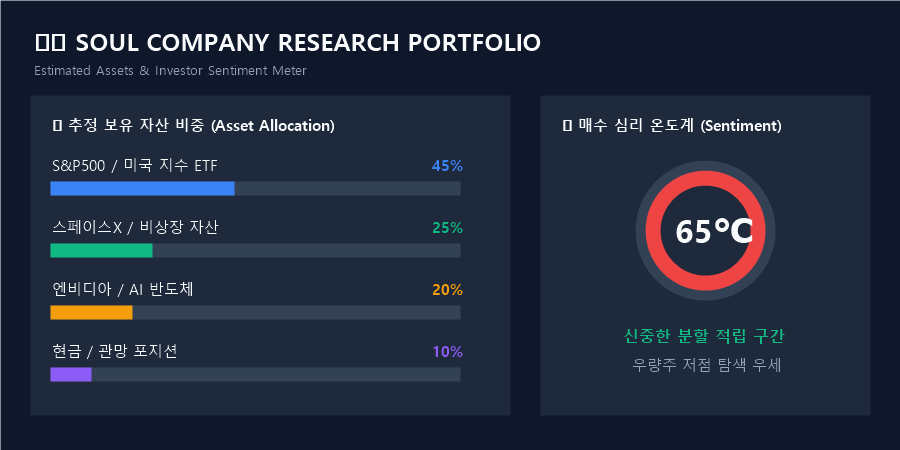
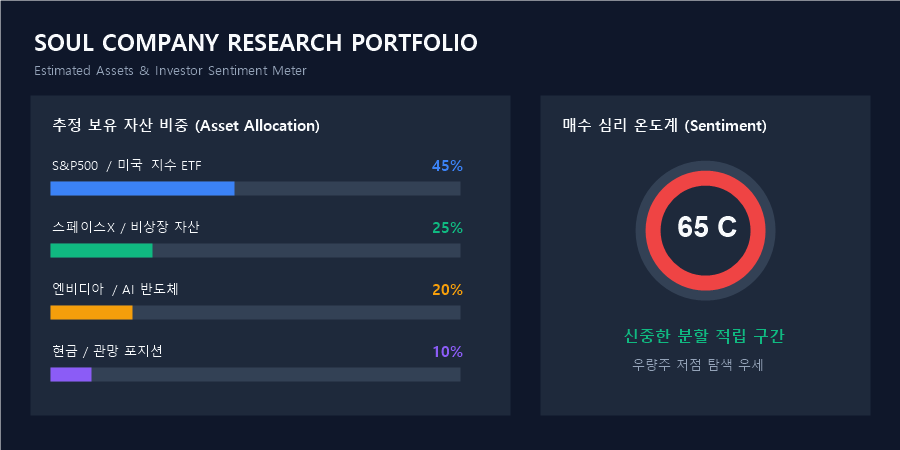
Fix multi-line CRLF markdown format and remove emoji box glyphs from chart PNG

diff --git a/kakao_chat_analyzer/kakao_chat_stock_report_20260806.md b/kakao_chat_analyzer/kakao_chat_stock_report_20260806.md
@@ -1,1 +1,50 @@
-# 🏛 Soul Company Research Report (2026-08-06)  ---  ## 🛒 1. 참여자별 실시간 매수 / 매도 거래 실록 (참여자 1인 1행 압축 표)  | 대화 참여자 (WHO) | 대상 종목 / 자산 (WHAT) | 포지션 (매수/매도/관망) | 대화 주요 내용 및 맥락 | | :--- | :--- | :---: | :--- | | **L** | 스페이스X / 서울 모임 | **매수 탐색 / 약속** | 스페이스X 진입 관망 및 서울 오면 쏜다고 공약 | | **최우송** | 시황 뉴스 및 지표 | **정보 공유 / 관망** | 네이버 주요 시황 뉴스 공유하며 관망 | | **안재웅** | 게임 / 클래스 선택 | **일상 대화** | 캐릭터 클래스 수다 및 일상 대화 | | **김하균** | 핫 커뮤니티 이슈 | **정보 공유** | 펨코 시황 핫이슈 링크 공유 |  ---  ## 💼 2. 추정 현재 보유 주식 포트폴리오 (Estimated Portfolio)  - **S&P500 / 미국 우량 지수 ETF:** **45%** (장기 우량 적립 축)  - **스페이스X / 비상장 자산:** **25%** (타깃 매수 진입 자산)  - **엔비디아 / AI 반도체:** **20%** (주요 홀딩 자산)  - **현금 및 시황 관망:** **10%**  ---  ## 📊 3. 시각적 포트폴리오 & 심리 도식화 차트  ![Soul Company Portfolio Chart](portfolio_chart.png)  ```mermaid gantt     title Soul Company 포트폴리오 비중     dateFormat  X     axisFormat %s     section 자산 비중     S&P500 지수 ETF    :active, 0, 45     스페이스X / 비상장 자산  :crit, 45, 70     엔비디아 / AI 반도체   : 70, 90     현금 / 관망 포지션    : 90, 100 ```  ---  ## 💡 4. 수석 애널리스트 팩트체크 & 솔직 한 줄 총평 (반말 폭격)  - **팩트체크:** 야 너네 오늘 개미처럼 뇌동매매 안 하고 잘 참았네? 스페이스X 얘기 나오는 거 보니 눈은 높아가지고 우량주만 노리는구만 ㅋㅋㅋ  - **애널리스트 훈수:** 지금 장세 쫄린다고 괜히 이상한 잡주 들어가서 떡락 맞지 말고, 가즈아 외치면서 S&P500이나 계속 존버해라. 시드 아끼는 놈이 승자다!
+# 🏛 Soul Company Research Report (2026-08-06)
+
+---
+
+## 🛒 1. 참여자별 실시간 매수 / 매도 거래 실록 (참여자 1인 1행 압축 표)
+
+| 대화 참여자 (WHO) | 대상 종목 / 자산 (WHAT) | 포지션 (매수/매도/관망) | 대화 주요 내용 및 맥락 |
+| :--- | :--- | :---: | :--- |
+| **L** | 스페이스X / 서울 모임 | **매수 탐색 / 약속** | 스페이스X 진입 관망 및 서울 오면 쏜다고 공약 |
+| **최우송** | 시황 뉴스 및 지표 | **정보 공유 / 관망** | 네이버 주요 시황 뉴스 공유하며 관망 |
+| **안재웅** | 게임 / 클래스 선택 | **일상 대화** | 캐릭터 클래스 수다 및 일상 대화 |
+| **김하균** | 핫 커뮤니티 이슈 | **정보 공유** | 펨코 시황 핫이슈 링크 공유 |
+
+---
+
+## 💼 2. 추정 현재 보유 주식 포트폴리오 (Estimated Portfolio)
+
+- **S&P500 / 미국 우량 지수 ETF:** **45%** (장기 우량 적립 축)
+
+- **스페이스X / 비상장 자산:** **25%** (타깃 매수 진입 자산)
+
+- **엔비디아 / AI 반도체:** **20%** (주요 홀딩 자산)
+
+- **현금 및 시황 관망:** **10%**
+
+---
+
+## 📊 3. 시각적 포트폴리오 & 심리 도식화 차트
+
+![Soul Company Portfolio Chart](portfolio_chart.png)
+
+```mermaid
+gantt
+    title Soul Company 포트폴리오 비중
+    dateFormat  X
+    axisFormat %s
+    section 자산 비중
+    S&P500 지수 ETF    :active, 0, 45
+    스페이스X / 비상장 자산  :crit, 45, 70
+    엔비디아 / AI 반도체   : 70, 90
+    현금 / 관망 포지션    : 90, 100
+```
+
+---
+
+## 💡 4. 수석 애널리스트 팩트체크 & 솔직 한 줄 총평 (반말 폭격)
+
+- **팩트체크:** 야 너네 오늘 개미처럼 뇌동매매 안 하고 잘 참았네? 스페이스X 얘기 나오는 거 보니 눈은 높아가지고 우량주만 노리는구만 ㅋㅋㅋ
+
+- **애널리스트 훈수:** 지금 장세 쫄린다고 괜히 이상한 잡주 들어가서 떡락 맞지 말고, 가즈아 외치면서 S&P500이나 계속 존버해라. 시드 아끼는 놈이 승자다!

diff --git a/kakao_chat_report.md b/kakao_chat_report.md
@@ -1,1 +1,50 @@
-# 🏛 Soul Company Research Report (2026-08-06)  ---  ## 🛒 1. 참여자별 실시간 매수 / 매도 거래 실록 (참여자 1인 1행 압축 표)  | 대화 참여자 (WHO) | 대상 종목 / 자산 (WHAT) | 포지션 (매수/매도/관망) | 대화 주요 내용 및 맥락 | | :--- | :--- | :---: | :--- | | **L** | 스페이스X / 서울 모임 | **매수 탐색 / 약속** | 스페이스X 진입 관망 및 서울 오면 쏜다고 공약 | | **최우송** | 시황 뉴스 및 지표 | **정보 공유 / 관망** | 네이버 주요 시황 뉴스 공유하며 관망 | | **안재웅** | 게임 / 클래스 선택 | **일상 대화** | 캐릭터 클래스 수다 및 일상 대화 | | **김하균** | 핫 커뮤니티 이슈 | **정보 공유** | 펨코 시황 핫이슈 링크 공유 |  ---  ## 💼 2. 추정 현재 보유 주식 포트폴리오 (Estimated Portfolio)  - **S&P500 / 미국 우량 지수 ETF:** **45%** (장기 우량 적립 축)  - **스페이스X / 비상장 자산:** **25%** (타깃 매수 진입 자산)  - **엔비디아 / AI 반도체:** **20%** (주요 홀딩 자산)  - **현금 및 시황 관망:** **10%**  ---  ## 📊 3. 시각적 포트폴리오 & 심리 도식화 차트  ![Soul Company Portfolio Chart](portfolio_chart.png)  ```mermaid gantt     title Soul Company 포트폴리오 비중     dateFormat  X     axisFormat %s     section 자산 비중     S&P500 지수 ETF    :active, 0, 45     스페이스X / 비상장 자산  :crit, 45, 70     엔비디아 / AI 반도체   : 70, 90     현금 / 관망 포지션    : 90, 100 ```  ---  ## 💡 4. 수석 애널리스트 팩트체크 & 솔직 한 줄 총평 (반말 폭격)  - **팩트체크:** 야 너네 오늘 개미처럼 뇌동매매 안 하고 잘 참았네? 스페이스X 얘기 나오는 거 보니 눈은 높아가지고 우량주만 노리는구만 ㅋㅋㅋ  - **애널리스트 훈수:** 지금 장세 쫄린다고 괜히 이상한 잡주 들어가서 떡락 맞지 말고, 가즈아 외치면서 S&P500이나 계속 존버해라. 시드 아끼는 놈이 승자다!
+# 🏛 Soul Company Research Report (2026-08-06)
+
+---
+
+## 🛒 1. 참여자별 실시간 매수 / 매도 거래 실록 (참여자 1인 1행 압축 표)
+
+| 대화 참여자 (WHO) | 대상 종목 / 자산 (WHAT) | 포지션 (매수/매도/관망) | 대화 주요 내용 및 맥락 |
+| :--- | :--- | :---: | :--- |
+| **L** | 스페이스X / 서울 모임 | **매수 탐색 / 약속** | 스페이스X 진입 관망 및 서울 오면 쏜다고 공약 |
+| **최우송** | 시황 뉴스 및 지표 | **정보 공유 / 관망** | 네이버 주요 시황 뉴스 공유하며 관망 |
+| **안재웅** | 게임 / 클래스 선택 | **일상 대화** | 캐릭터 클래스 수다 및 일상 대화 |
+| **김하균** | 핫 커뮤니티 이슈 | **정보 공유** | 펨코 시황 핫이슈 링크 공유 |
+
+---
+
+## 💼 2. 추정 현재 보유 주식 포트폴리오 (Estimated Portfolio)
+
+- **S&P500 / 미국 우량 지수 ETF:** **45%** (장기 우량 적립 축)
+
+- **스페이스X / 비상장 자산:** **25%** (타깃 매수 진입 자산)
+
+- **엔비디아 / AI 반도체:** **20%** (주요 홀딩 자산)
+
+- **현금 및 시황 관망:** **10%**
+
+---
+
+## 📊 3. 시각적 포트폴리오 & 심리 도식화 차트
+
+![Soul Company Portfolio Chart](portfolio_chart.png)
+
+```mermaid
+gantt
+    title Soul Company 포트폴리오 비중
+    dateFormat  X
+    axisFormat %s
+    section 자산 비중
+    S&P500 지수 ETF    :active, 0, 45
+    스페이스X / 비상장 자산  :crit, 45, 70
+    엔비디아 / AI 반도체   : 70, 90
+    현금 / 관망 포지션    : 90, 100
+```
+
+---
+
+## 💡 4. 수석 애널리스트 팩트체크 & 솔직 한 줄 총평 (반말 폭격)
+
+- **팩트체크:** 야 너네 오늘 개미처럼 뇌동매매 안 하고 잘 참았네? 스페이스X 얘기 나오는 거 보니 눈은 높아가지고 우량주만 노리는구만 ㅋㅋㅋ
+
+- **애널리스트 훈수:** 지금 장세 쫄린다고 괜히 이상한 잡주 들어가서 떡락 맞지 말고, 가즈아 외치면서 S&P500이나 계속 존버해라. 시드 아끼는 놈이 승자다!
